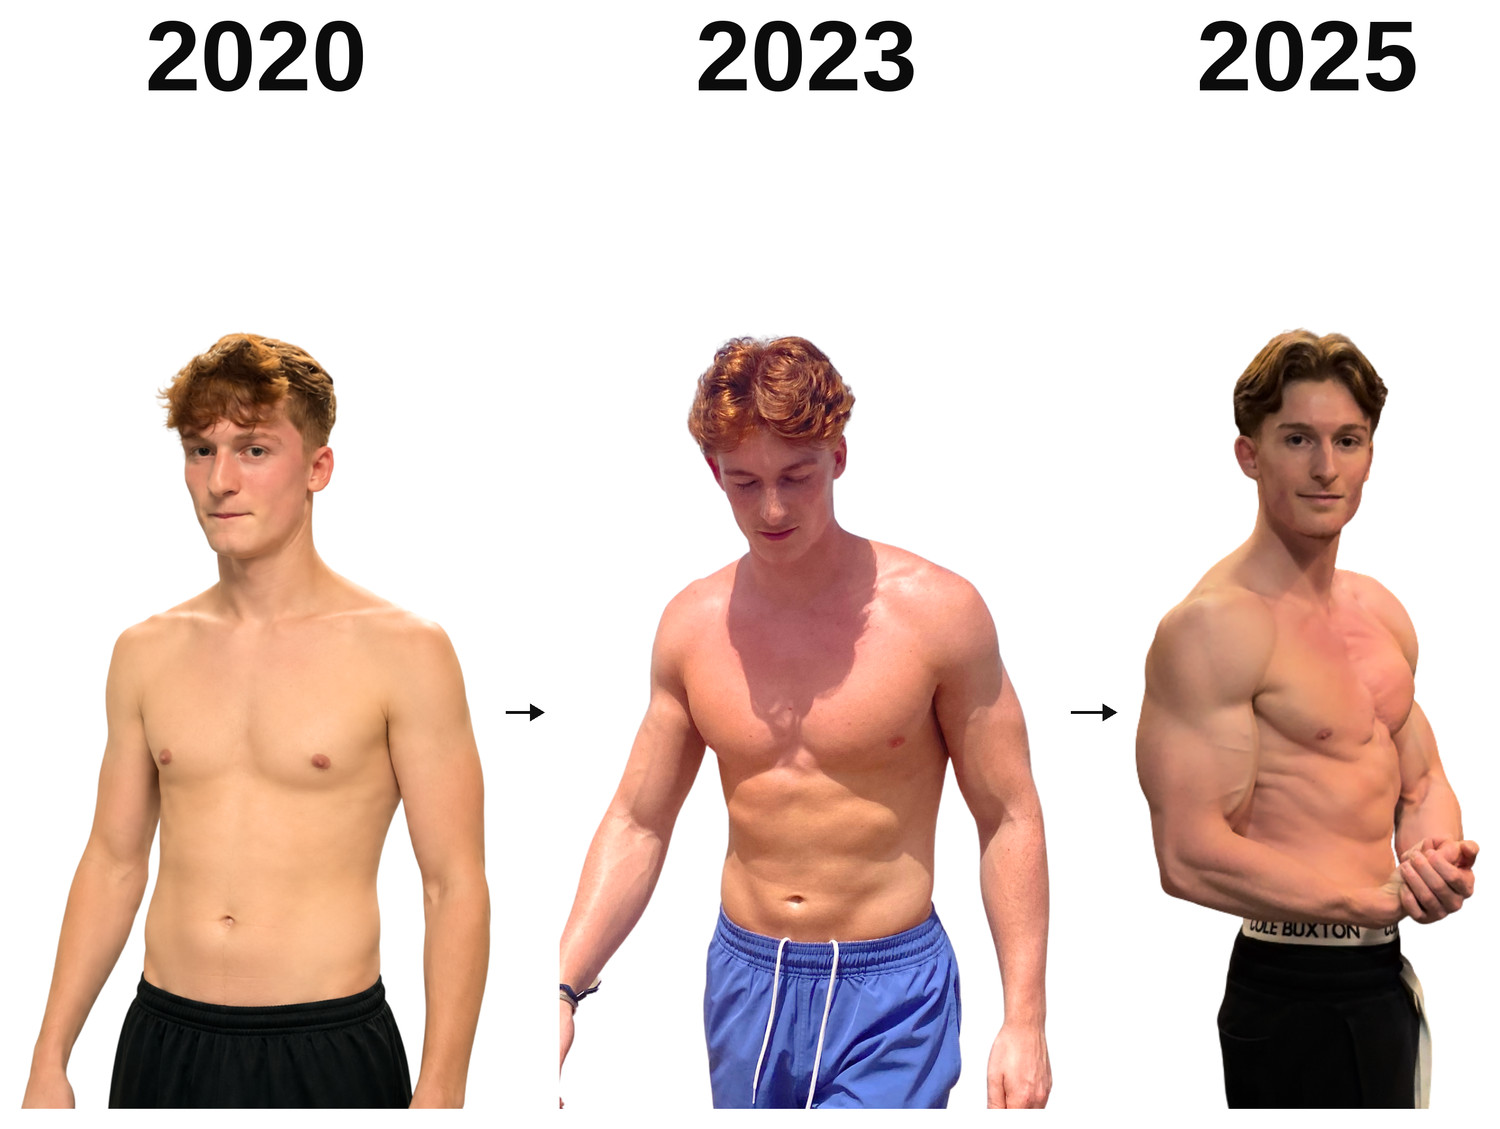
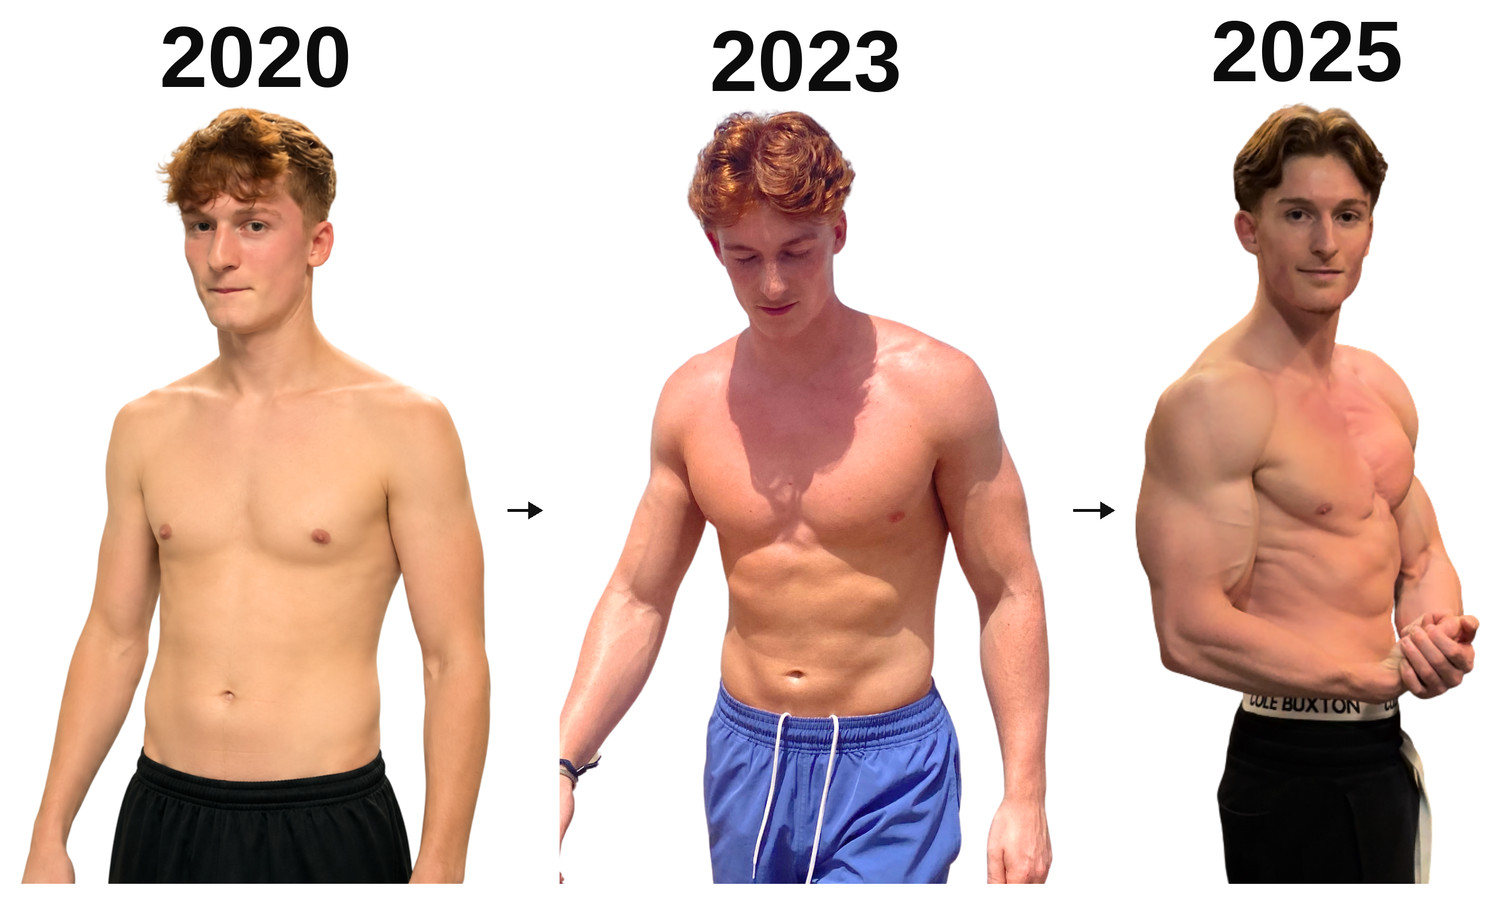
Add files via upload
Landing V9.

diff --git a/plan.html b/plan.html
@@ -327,10 +327,14 @@
       </a>
       <div class="tool reveal d4" style="grid-column:1/-1;border:1.5px dashed rgba(0,0,0,.15);background:rgba(255,255,255,.6)">
         <div class="tool-n" style="color:var(--blue)">BIENTÔT</div>
-        <h3>Club</h3>
-        <p style="font-weight:600;color:var(--black);margin-bottom:6px">Healthy lifestyle · Business creation · Voyage & expériences · Communauté franco-anglophone privée</p>
-        <p style="font-size:.78rem;color:rgba(0,0,0,.45);font-style:italic;font-weight:500">Where ambitious men build their highest-performing life.</p>
-        <div style="display:inline-flex;align-items:center;gap:6px;margin-top:16px;font-size:.75rem;font-weight:700;color:var(--blue);background:var(--blue-light);border:1px solid var(--blue-border);border-radius:20px;padding:5px 14px;letter-spacing:.06em;text-transform:uppercase">⏳ En cours de développement</div>
+        <h3>La team privée</h3>
+        <p style="font-weight:500;color:var(--black);margin-bottom:14px">Coachs, entrepreneurs, ou ceux qui veulent simplement bâtir leur liberté en ligne, expérimenter un healthy lifestyle et progresser entourés des bonnes personnes. On se réunit, on avance ensemble. Pas d'abonnement, pas de blabla.</p>
+        <p style="font-weight:600;color:var(--black);margin-bottom:12px">Laisse ton Instagram — on te contacte au lancement.</p>
+        <div class="club-row">
+          <input class="club-in" type="text" id="clubInsta" placeholder="@toncompte" autocomplete="off">
+          <button type="button" class="club-btn" id="clubBtn">Je veux être prévenu</button>
+        </div>
+        <p id="clubOk" style="display:none;margin-top:12px;color:var(--blue);font-size:.85rem;font-weight:600">C'est noté. Tu seras dans les premiers prévenus.</p>
       </div>
     </div>
   </div>
@@ -424,15 +428,35 @@ function sp(e, id) {
 
 (function(){
   const fc=document.getElementById('floatCta');
-  const end=document.getElementById('s-bilan');
-  if(!fc) return;
+  const zone=document.getElementById('s-transfo');
+  if(!fc||!zone) return;
   function upd(){
-    const show = window.scrollY>500;
-    let overEnd=false;
-    if(end){const r=end.getBoundingClientRect(); overEnd = r.top < window.innerHeight*0.8;}
-    fc.classList.toggle('on', show && !overEnd);
+    const r=zone.getBoundingClientRect();
+    // visible seulement tant que la section transformation est à l'écran
+    const inView = r.top < window.innerHeight*0.5 && r.bottom > 120;
+    fc.classList.toggle('on', inView);
   }
   window.addEventListener('scroll',upd,{passive:true}); upd();
+})();
+
+(function(){
+  const SU="https://script.google.com/macros/s/AKfycbzn0xHdy_gdTVK5RfOhGaL3pI-vKQZ02wXCI2dZdYPxrKDcUjMPWI0hF8Wp6ML5O1fk/exec";
+  const btn=document.getElementById('clubBtn');
+  if(!btn) return;
+  btn.addEventListener('click',function(){
+    const ig=document.getElementById('clubInsta').value.trim();
+    if(!ig) return;
+    let prenom='',email='';
+    try{prenom=sessionStorage.getItem('fp_prenom')||'';email=sessionStorage.getItem('fp_email')||'';}catch(e){}
+    const params=new URLSearchParams({
+      date:new Date().toLocaleString('fr-BE'),
+      prenom:prenom, email:email, statut:'Team — intéressé', instagram:ig
+    });
+    const f=document.createElement('iframe'); f.style.display='none';
+    f.src=SU+'?'+params.toString(); document.body.appendChild(f);
+    btn.disabled=true;
+    document.getElementById('clubOk').style.display='block';
+  });
 })();
 </script>
 

diff --git a/styles.css b/styles.css
@@ -297,7 +297,6 @@ a{text-decoration:none;color:inherit}
   .hero-ctas{flex-direction:column;align-items:center}
   /* garde anti-débordement : aucun enfant de grille/flex ne peut imposer sa largeur mini */
   .t-col3,.t-item3,.mr>*,.mr-blue>*,.care-grid>*,.metric,.in-card{min-width:0}
-  .t-item3{white-space:normal;overflow-wrap:normal;word-break:normal}
 }
 /* filet de sécurité global : rien ne dépasse la largeur d'écran */
 html,body{max-width:100%;overflow-x:hidden}
@@ -313,9 +312,9 @@ img{max-width:100%;height:auto}
 .t-col3-lbl.mid{background:rgba(217,119,6,.9);color:var(--white)}
 .t-col3-lbl.good{background:rgba(22,163,74,.85);color:var(--white)}
 /* Blanc légèrement blur — style care mais encore plus doux */
-.t-item3{background:rgba(255,255,255,0.88);backdrop-filter:blur(20px);-webkit-backdrop-filter:blur(20px);border:1px solid rgba(255,255,255,.95);border-radius:var(--r-md);padding:10px 13px;font-size:.82rem;display:flex;align-items:center;gap:9px;line-height:1.4;transition:transform .25s cubic-bezier(.34,1.56,.64,1);color:var(--black);font-weight:500}
+.t-item3{background:rgba(255,255,255,0.88);backdrop-filter:blur(20px);-webkit-backdrop-filter:blur(20px);border:1px solid rgba(255,255,255,.95);border-radius:var(--r-md);padding:10px 13px;font-size:.82rem;line-height:1.4;transition:transform .25s cubic-bezier(.34,1.56,.64,1);color:var(--black);font-weight:500;overflow-wrap:break-word;word-break:normal}
 .t-item3:hover{transform:scale(1.04);z-index:2}
-.t-item3 .dot{width:6px;height:6px;border-radius:50%;flex-shrink:0}
+.t-item3 .dot{display:inline-block;width:6px;height:6px;border-radius:50%;margin-right:8px;vertical-align:middle}
 .t-photo-img{display:block;width:100%;border-radius:var(--r-md);transition:all .4s cubic-bezier(.34,1.56,.64,1);cursor:pointer;box-shadow:0 0 0 0 rgba(0,102,255,.2)}
 .t-photo-img:hover{transform:scale(1.03);box-shadow:0 0 0 8px rgba(0,102,255,.15),0 8px 32px rgba(0,102,255,.25)}
 
@@ -511,6 +510,16 @@ img{max-width:100%;height:auto}
 .float-cta-dot{width:7px;height:7px;border-radius:50%;background:#fff;animation:fcpulse 1.8s ease-in-out infinite}
 @keyframes fcpulse{0%,100%{opacity:1}50%{opacity:.35}}
 @media(max-width:600px){
-  .float-cta{top:auto;bottom:16px;right:16px;left:16px;justify-content:center;font-size:13.5px;padding:13px 18px}
+  .float-cta{top:12px;right:12px;font-size:12px;padding:9px 14px;box-shadow:0 6px 20px rgba(0,102,255,.45)}
 }
 @media(prefers-reduced-motion:reduce){.float-cta-dot{animation:none}}
+
+/* --- FORMULAIRE TEAM (plan.html) --- */
+.club-row{display:flex;gap:10px;flex-wrap:wrap}
+.club-in{flex:1;min-width:180px;background:#fff;border:1px solid rgba(0,0,0,.18);border-radius:var(--rs);
+  padding:11px 14px;font-family:var(--font);font-size:.9rem;color:var(--black)}
+.club-in:focus{outline:2px solid var(--blue);outline-offset:1px;border-color:var(--blue)}
+.club-btn{background:var(--blue);color:#fff;border:0;border-radius:var(--rs);padding:11px 20px;
+  font-family:var(--font);font-weight:650;font-size:.9rem;cursor:pointer;white-space:nowrap;transition:background .2s}
+.club-btn:hover{background:var(--blue2)}
+.club-btn:disabled{opacity:.6;cursor:default}

diff --git a/index.html b/index.html
@@ -70,7 +70,7 @@
 
       <div class="metric">
         <div class="metric-top">
-          <div class="metric-lbl">VO₂ max</div>
+          <div class="metric-lbl">VO₂ max moyen</div>
           <div class="metric-n">59</div>
         </div>
         <p class="metric-ctx">
@@ -81,7 +81,7 @@
 
       <div class="metric">
         <div class="metric-top">
-          <div class="metric-lbl">FC au repos</div>
+          <div class="metric-lbl">FC au repos moyenne</div>
           <div class="metric-n">50<span>bpm</span></div>
         </div>
         <p class="metric-ctx">
@@ -92,12 +92,12 @@
 
       <div class="metric">
         <div class="metric-top">
-          <div class="metric-lbl">Sommeil profond</div>
-          <div class="metric-n">22<span>%</span></div>
+          <div class="metric-lbl">Sommeil profond &amp; paradoxal moyen</div>
+          <div class="metric-n">22<span>/ 24 %</span></div>
         </div>
         <p class="metric-ctx">
-          La phase qui <b>répare le muscle</b> et consolide la mémoire.
-          Au-dessus de la norme adulte, chaque nuit.
+          <b>22 % profond</b> (réparation musculaire) et <b>24 % paradoxal</b>
+          (mémoire et récupération mentale). Les deux au-dessus de la norme, chaque nuit.
         </p>
       </div>
 
